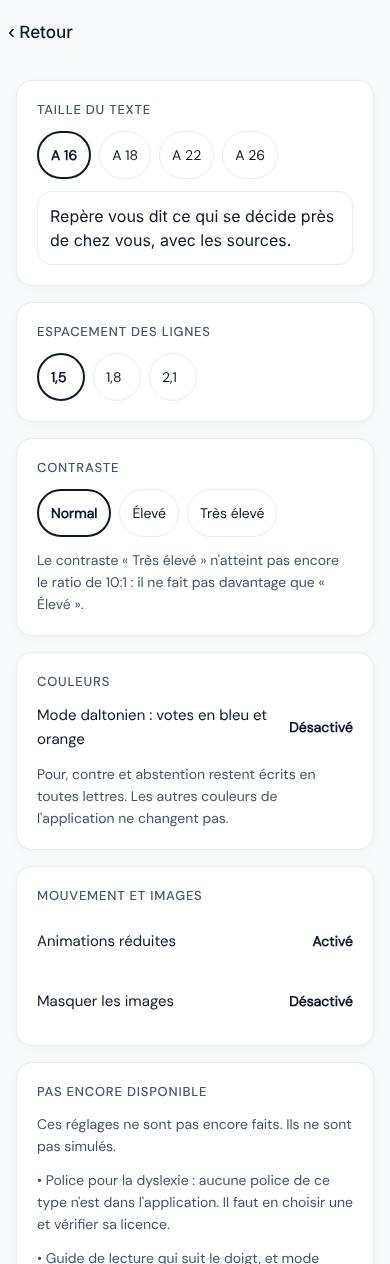
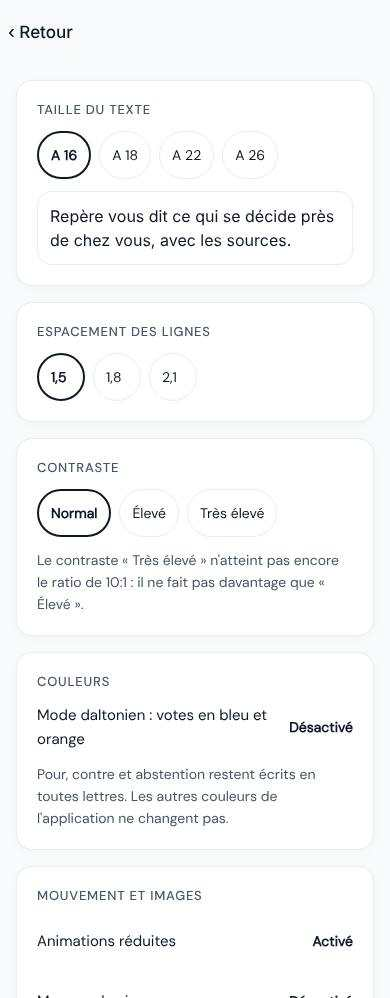
Audit UI : trois décisions du porteur (filet d'échelon, date ancienne, section non faite)
1. Cartes d'échelon : plus de filet coloré à gauche ; le point et le nom de l'échelon restent.
2. Date d'une donnée de plus de 30 jours : gris neutre, graisse normale ; le nombre de jours
   écrit est le seul signal. Couleur « ancien » retirée de la palette.
3. Confort de lecture : section « Pas encore disponible » supprimée.

Banc 334/334, tsc 0 erreur, audit mesuré sans écart, parcours navigateur verts en local.
Captures « après » rejouées. Non vérifié : iPhone.

Claude-Session: https://claude.ai/code/session_01XoQGvg2ZhJUzjqgJHx74cM

diff --git a/mono/apps/mobile/src/ui/fraicheur.tsx b/mono/apps/mobile/src/ui/fraicheur.tsx
@@ -69,10 +69,9 @@ export function DatePublication({ flottant = false }: { flottant?: boolean }) {
 /* LA DATE D'UNE DONNEE ET SON ANCIENNETE, D'UN COUP D'OEIL (V13, bloc A, 30/10/2026).
    « Comptes OFGL du 29 juillet 2026 · il y a 93 jours · Source ». Jamais « à jour »
    (invariant 9) : la date brute et le nombre de jours, comptes a l'heure de Paris
-   (ageReleve, @repere/core). Au-dela de 30 jours, la ligne passe en « ancien » et en
-   gras : le nombre de jours reste le signal, la couleur ne fait que le souligner.
+   (ageReleve, @repere/core). Décision du porteur, 10/11/2026 : la ligne reste en gris neutre et en
+   graisse normale quel que soit l'âge ; le nombre de jours est le seul signal.
    Toute la ligne est le lien vers la source (44 px, cible tactile du projet). */
-export const SEUIL_ANCIEN_JOURS = 30;
 export const ilYa = (n: number) => (n <= 0 ? "aujourd'hui" : `il y a ${n} jour${n > 1 ? "s" : ""}`);
 /* « avant » : une ligne de contexte posee dans le meme lien (Aujourd'hui : departement et region),
    pour ne pas ajouter de hauteur au premier ecran (les trois reponses doivent y tenir). */
@@ -80,7 +79,6 @@ export function DateDonnee({ quoi, date, url, testID, avant }: { quoi: string; d
   const jour = date ? String(date).slice(0, 10) : "";
   const age = ageReleve(jour);
   if (age === null || age < 0) return null;
-  const ancien = age > SEUIL_ANCIEN_JOURS;
   const ouvrir = () => (url ? Linking.openURL(url) : router.push("/sources"));
   /* Refonte (porteur, 09/11/2026) : la source en tête d'écran est une icône d'information discrète ;
      le nom accessible dit toujours « Ouvrir la source ». */
@@ -101,7 +99,7 @@ export function DateDonnee({ quoi, date, url, testID, avant }: { quoi: string; d
         </View>
       ) : null}
       <View style={{ flexDirection: "row", flexWrap: "wrap", alignItems: "center", columnGap: PAS * 2 }}>
-        <Text style={{ fontSize: 14, lineHeight: 19, color: ancien ? couleurs.ancien : couleurs.sourd, fontWeight: ancien ? "700" : "400" }}>
+        <Text style={{ fontSize: 14, lineHeight: 19, color: couleurs.sourd }}>
           {quoi} du {dateFr(jour)} · {ilYa(age)}
         </Text>
         {avant ? null : lienSource}

diff --git a/mono/apps/mobile/src/lib/composants.tsx b/mono/apps/mobile/src/lib/composants.tsx
@@ -16,11 +16,11 @@ import { Pression } from "../ui/pression";
 /* Refonte du 30/09/2026 : l'echelon se dit par un point de couleur devant l'etiquette.
    07/11/2026 (refonte globale, demande du porteur) : le filet de 4 px a gauche revient,
    couleur de l'echelon (ou `accent`) ; `onPress` rend toute la carte touchable (Pression). */
-export function Carte({ echelon, children, titre, accent, onPress, etiquette }: {
-  echelon?: Echelon; children: ReactNode; titre?: string; accent?: string; onPress?: () => void; etiquette?: string;
+export function Carte({ echelon, children, titre, onPress, etiquette }: {
+  echelon?: Echelon; children: ReactNode; titre?: string; onPress?: () => void; etiquette?: string;
 }) {
-  const filet = accent || (echelon ? (pointEchelon(echelon) as { backgroundColor?: string }).backgroundColor : undefined);
-  const style = [s.carte, { backgroundColor: couleurs.carte }, filet ? { borderLeftWidth: 2, borderLeftColor: filet } : null];
+  /* Décision du porteur, 10/11/2026 : aucun filet coloré à gauche ; le point et le nom de l'échelon suffisent. */
+  const style = [s.carte, { backgroundColor: couleurs.carte }];
   const corps = (
     <>
       {titre ? (
@@ -45,9 +45,8 @@ export function CarteQuestion({ echelon, question, reponse, children, pied, acti
   echelon: Echelon; question: string; reponse: ReactNode; children?: ReactNode; pied?: ReactNode;
   action?: { texte: string; onPress: () => void };
 }) {
-  const filet = (pointEchelon(echelon) as { backgroundColor?: string }).backgroundColor;
   return (
-    <View style={[s.carte, { backgroundColor: couleurs.carte }, filet ? { borderLeftWidth: 2, borderLeftColor: filet } : null]}>
+    <View style={[s.carte, { backgroundColor: couleurs.carte }]}>
       <View style={s.carteTete}>
         <View style={[s.point, pointEchelon(echelon)]} />
         <Text style={s.carteTitre} accessibilityRole="header">{question}</Text>

diff --git a/mono/apps/mobile/src/lib/palette.ts b/mono/apps/mobile/src/lib/palette.ts
@@ -26,10 +26,6 @@ export type Echelon = keyof typeof ECHELONS;
 export type Neutres = {
   sol: string; carte: string; encre: string; sourd: string;
   trait: string; voile: string; blanc: string; lien: string;
-  /* « ancien » (V13, 30/10/2026) : la date d'une donnee de plus de 30 jours. Un gris
-     tire vers le rouge, au plafond d'amplitude 24 de l'invariant 7 : un vrai rouge
-     serait une couleur, que l'invariant reserve aux echelons et aux groupes. */
-  ancien: string;
 };
 
 /* Neutres du clair : « Néo-Civique » des maquettes Stitch (09/11/2026, invariant 7 amendé par le
@@ -39,7 +35,7 @@ export type Neutres = {
    à 4,28:1 sur les pastilles (mesuré dans le navigateur, parcours-web), sous le seuil AA. */
 const NEUTRES_CLAIR: Neutres = {
   sol: "#F8FAFC", carte: "#FFFFFF", encre: "#0F172A", sourd: "#475569",
-  trait: "#E8EEF3", voile: "#EDF4F7", blanc: "#ffffff", lien: "#0F172A", ancien: "#745C5C",
+  trait: "#E8EEF3", voile: "#EDF4F7", blanc: "#ffffff", lien: "#0F172A",
 };
 
 /* Neutres du sombre : même famille chaude que le clair (pas de bleu), mesurés
@@ -53,7 +49,7 @@ const NEUTRES_CLAIR: Neutres = {
    métadonnées en gris minéral #9C9A92, filets #2B2A26. Sol et carte inchangés. */
 const NEUTRES_SOMBRE: Neutres = {
   sol: "#141311", carte: "#1F1E1B", encre: "#F5F4F0", sourd: "#9C9A92",
-  trait: "#2B2A26", voile: "#2A2823", blanc: "#ffffff", lien: "#F5F4F0", ancien: "#CCB4B4",
+  trait: "#2B2A26", voile: "#2A2823", blanc: "#ffffff", lien: "#F5F4F0",
 };
 
 /* L'INTERFACE RESTE NEUTRE (décision du porteur, 09/11/2026, après la PR #181) : noir, ivoire,

diff --git a/mono/apps/mobile/src/app/confort-lecture.tsx b/mono/apps/mobile/src/app/confort-lecture.tsx
@@ -65,11 +65,6 @@ export default function ConfortLecture() {
         <Interrupteur texte="Animations réduites" actif={p.animationsReduites} onPress={() => modifier({ animationsReduites: !p.animationsReduites })} />
         <Interrupteur texte="Masquer les images" actif={p.masquerImages} onPress={() => modifier({ masquerImages: !p.masquerImages })} />
       </Carte>
-      <Carte titre="Pas encore disponible">
-        <Text style={TYPO.note}>Ces réglages ne sont pas encore faits. Ils ne sont pas simulés.</Text>
-        <Text style={TYPO.note}>• Police pour la dyslexie : aucune police de ce type n'est dans l'application. Il faut en choisir une et vérifier sa licence.</Text>
-        <Text style={TYPO.note}>• Guide de lecture qui suit le doigt, et mode focus : pas encore conçus pour les écrans.</Text>
-      </Carte>
     </ScrollView>
   );
 }

diff --git a/mono/apps/mobile/src/app/voter.tsx b/mono/apps/mobile/src/app/voter.tsx
@@ -93,7 +93,7 @@ export default function Voter() {
             suivre une durée est permis) ; les élections à venir sur une frise verticale. */}
         {/* La présidentielle a sa bannière plus haut (ui/presidentielle) : la carte ne la répète pas. */}
         {prochaine && prochaine.type === "presidentielle" ? null : (
-        <Carte titre="Prochaine élection" accent={couleurs.encre}>
+        <Carte titre="Prochaine élection">
           {prochaine ? (
             <>
               <Text style={TYPO.reponse}>{prochaine.titre}</Text>

diff --git a/mono/apps/mobile/src/lib/theme.ts b/mono/apps/mobile/src/lib/theme.ts
@@ -138,7 +138,7 @@ function construire(m: Mode) {
 
 type Palette = Record<Echelon, string> & {
   sol: string; carte: string; encre: string; sourd: string;
-  trait: string; voile: string; blanc: string; lien: string; ancien: string;
+  trait: string; voile: string; blanc: string; lien: string;
 };
 type Vue = ReturnType<typeof construire>;
 

diff --git a/RAPPORT-AUDIT-UI.md b/RAPPORT-AUDIT-UI.md
@@ -50,7 +50,7 @@ Colonne « écarts mesurés » : somme des deux thèmes, avant → après.
 | presidentielle-2027 | corrigé | Bandeau cerné d'un filet ivoire de 1,5 px ; la date de publication touchait la carte. | Filet standard de 1 px ; 8 px sous la date. | 0 → 0 | [avant sombre](docs/audit-ui/avant/presidentielle-2027-sombre.jpg) · [après sombre](docs/audit-ui/apres/presidentielle-2027-sombre.jpg) · [avant clair](docs/audit-ui/avant/presidentielle-2027-clair.jpg) · [après clair](docs/audit-ui/apres/presidentielle-2027-clair.jpg) |
 | reglement-2027 | corrigé | Date de publication collée à l'étiquette. | 8 px sous la date. | 0 → 0 | [avant sombre](docs/audit-ui/avant/reglement-2027-sombre.jpg) · [après sombre](docs/audit-ui/apres/reglement-2027-sombre.jpg) · [avant clair](docs/audit-ui/avant/reglement-2027-clair.jpg) · [après clair](docs/audit-ui/apres/reglement-2027-clair.jpg) |
 | calendrier | corrigé | Bouton « Réessayer » en bleu pétrole (couleur d'échelon « commune ») dans une interface décidée neutre. Calendrier absent du conteneur : état vide seul vérifié. | Bouton plein neutre (ivoire en sombre, encre en clair). | 0 → 0 | [avant sombre](docs/audit-ui/avant/calendrier-sombre.jpg) · [après sombre](docs/audit-ui/apres/calendrier-sombre.jpg) · [avant clair](docs/audit-ui/avant/calendrier-clair.jpg) · [après clair](docs/audit-ui/apres/calendrier-clair.jpg) |
-| finances | conforme | La date « ancienne » des comptes (plus de 30 jours) est en rose gris et en gras : signal voulu de l'invariant 9, proche du corail des votes à l'œil. | Aucune : décision produit, signalée au porteur. | 0 → 0 | [avant sombre](docs/audit-ui/avant/finances-sombre.jpg) · [après sombre](docs/audit-ui/apres/finances-sombre.jpg) · [avant clair](docs/audit-ui/avant/finances-clair.jpg) · [après clair](docs/audit-ui/apres/finances-clair.jpg) |
+| finances | corrigé | La date « ancienne » des comptes (plus de 30 jours) était en rose gris et en gras, proche du corail des votes à l'œil ; filet coloré à gauche des cartes. | Date en gris neutre, filet retiré (décisions du porteur). | 0 → 0 | [avant sombre](docs/audit-ui/avant/finances-sombre.jpg) · [après sombre](docs/audit-ui/apres/finances-sombre.jpg) · [avant clair](docs/audit-ui/avant/finances-clair.jpg) · [après clair](docs/audit-ui/apres/finances-clair.jpg) |
 | voter | corrigé | Tuile « Présidentielle 2027 » cernée d'un filet ivoire de 1,5 px. | Filet standard, rayon de carte. | 0 → 0 | [avant sombre](docs/audit-ui/avant/voter-sombre.jpg) · [après sombre](docs/audit-ui/apres/voter-sombre.jpg) · [avant clair](docs/audit-ui/avant/voter-clair.jpg) · [après clair](docs/audit-ui/apres/voter-clair.jpg) |
 | pour-vous | corrigé | Ligne « Vote à l'Assemblée · date · il y a N jours » en chasse fixe, alors que l'accueil l'écrit en texte courant. | Texte courant. | 0 → 0 | [avant sombre](docs/audit-ui/avant/pour-vous-sombre.jpg) · [après sombre](docs/audit-ui/apres/pour-vous-sombre.jpg) · [avant clair](docs/audit-ui/avant/pour-vous-clair.jpg) · [après clair](docs/audit-ui/apres/pour-vous-clair.jpg) |
 | sources | corrigé | Marges de 20 px ; date collée à l'étiquette. | Gabarit de page. | 0 → 0 | [avant sombre](docs/audit-ui/avant/sources-sombre.jpg) · [après sombre](docs/audit-ui/apres/sources-sombre.jpg) · [avant clair](docs/audit-ui/avant/sources-clair.jpg) · [après clair](docs/audit-ui/apres/sources-clair.jpg) |
@@ -99,7 +99,13 @@ Colonne « écarts mesurés » : somme des deux thèmes, avant → après.
   mesurera au premier passage : un écart y fera échouer la garde.
 - **Écrans non capturés** : `annuaire-fiche` (fiche ouverte depuis la liste des élus), `dev-impact`
   (outil interne).
-- **Non touché, à décider par le porteur** :
-  1. le filet coloré à gauche des cartes d'échelon (2 px, dessine un croissant sur un angle arrondi) ;
-  2. la date « ancienne » en rose gris et en gras (invariant 9), proche du corail des votes ;
-  3. la section « Pas encore disponible » du confort de lecture, qui liste des réglages non faits.
+
+## Décisions du porteur du 10/11/2026, appliquées
+
+1. **Filet coloré à gauche des cartes d'échelon : supprimé** (`lib/composants.tsx`). Le point et le nom
+   de l'échelon restent. Le cartouche « En clair » et le bandeau de fraîcheur gardent leur filet gris :
+   ce ne sont pas des cartes d'échelon.
+2. **Date « ancienne » : gris neutre, graisse normale**, quel que soit l'âge (`ui/fraicheur.tsx`). Le
+   nombre de jours écrit (« il y a 104 jours ») est le seul signal. La couleur `ancien` est retirée de
+   la palette.
+3. **Section « Pas encore disponible » : supprimée** du confort de lecture.
